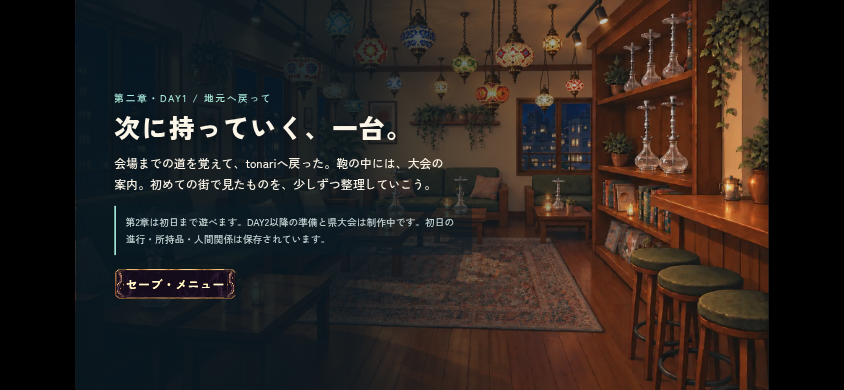
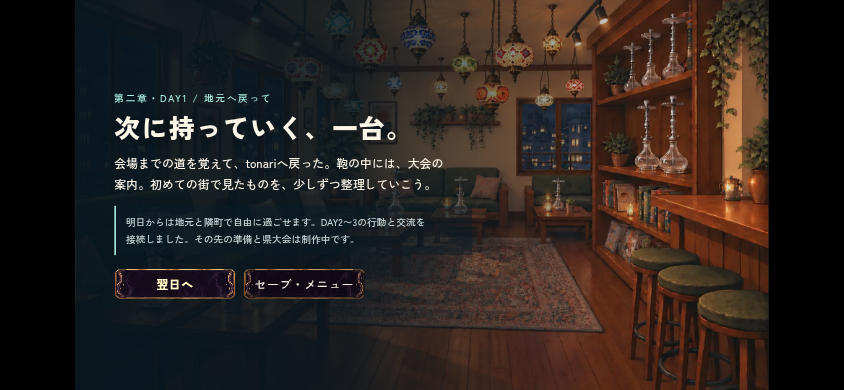
docs(ch2): verify preparation days, replay saves and existing daily flows

Changed region(s): [[0.154, 0.5538, 0.5545, 0.6462], [0.154, 0.6769, 0.4313, 0.7692]]

diff --git a/docs/qa/ch2-daily/README.md b/docs/qa/ch2-daily/README.md
@@ -24,4 +24,31 @@ node --experimental-vm-modules remake/test/lime_consistency.mjs
 
 ## 検証状況
 
-最終結果と画面は検証後に追記する。開発時に新テストの固定値が根性★2の体力上限110・消耗の補正と食い違っていたため既存ルールへ合わせた。分岐内の成長候補は会話エンジンの既存apply行として記録し、単なる台詞フィールドへ書かない。地図プレビューはCSS背景なので、画像要素を探す検査ではなく実際の背景URLと画像decodeを検査する。
+素材と台本を含むコミット9ac02e1を保存し、街切替の位置とスロットの検査を032601cへ追加。最終8ケースは全件PASS。[結果](browser-results.json)と[地元](day2-home.png)・[隣町](day2-widehanga.png)・[横持ちタッチのDAY3終了](touch-day3-complete.png)を保存した。開発時に新テストの固定値が根性★2の体力上限110・消耗の補正と食い違っていたため既存ルールへ合わせた。分岐内の成長候補は会話エンジンの既存apply行として記録し、単なる台詞フィールドへ書かない。地図プレビューはCSS背景なので、画像要素を探す検査ではなく実際の背景URLと画像decodeを検査する。
+
+
+## 既存の日常の回帰
+
+同じコードで初日接続9ケース、既存の休養・延期・病欠・大会の朝・LIME約束12ケース、シフト・遭遇・旧セーブ・前夜の行動14ケースがPASS。通常の成長と無料行動の検査は19種類の訪問・施設・休養・シフトを含めPASS。LIMEの通知・返信・予約のVM検査へ、第2章の章内DAY3条件・あげはの未交換と第1章での非配信・10日記念日・デート継続を追加しPASS。35 JSONの読込・日常整合性・章の日付境界もPASS。
+
+元の第1章の料金・体力補正・行動・固定夜・シフト・練習ルールを変えず、日常の終端と街固有のスポットだけ章側から渡す。通算16日を第2章DAY2として表示し、大会当日判定には章内日を使う。会話と夜の固定予定は実際の読了後に保存する。8本の新相談／再訪台本のlintはERROR0／WARN0。579場面の接続検査はPASS、既存shuraba_mashiroの重複警告1件は維持。
+
+室内は採用済み4室を使い、タッパーを客席へ戻さない。夜用の室内専用差分・営業中器具は未制作で、窓のある展示室も現状は同じ室内絵を使う。DAY4以降のカレンダーと県大会は今回の接続範囲に含めない。地元の全施設・すべての恋人ルートを第2章保存から再完走した検査ではない。
+
+
+## 最終8ケース
+
+| ケース | 確認 |
+| --- | --- |
+| next-day-region-switch-and-autosave | 実際の翌日ボタン、通算16日／章内DAY2／あと12日、街切替で消費なし、オートLOADで同じ街へ。実際にスロットを設置した画面でピン・HUD・筐体との重なり0 |
+| paid-city-talk-repeat-and-contact | 訪問料・根性補正後の体力・1行動・通常成長、同日の重複来店を抑止、再訪の別台本、読了後の連絡先と翌朝のLIME、保存再開 |
+| installed-reel-preserves-draw-on-reload | 本物の設置済みスロットで新街の行動を抽選し、リプレイ連鎖も含めて回転数・報酬・能力をLOADで再抽選／再加算しない |
+| touch-four-owners-and-fixed-day3-night | 横持ちタッチで未面識の4人を訪問。実際の名乗りと各相談、DAY3夜のなるの祝福を一度読み、無料固定の成長なし。DAY4朝の制作境界とLOAD |
+| preparation-json-failure-keeps-day1-and-retries | 追加台本が壊れても初日保存・日付を保ち、復旧後の再試行で翌日へ進む |
+| reload-unread-paid-room-keeps-last-action-point | 室内の途中で実際に再読込。未読の訪問・料金・能力・行動を確定せず、最後の保存からもう一度読める |
+| unaffordable-city-visit-spends-nothing | 所持金不足で移動ボタンを出さず、料金・行動・能力を消費しない |
+| room-image-failure-preserves-cost-and-action | 新内装画像が壊れた時は請求せず地図へ戻し、復旧後に1行動で再訪できる |
+
+正常起動の例外・HTTP失敗は0。故障ケースは200の不正本文を意図的に返した。4店の通し検査は高速送りも使い、画像と地図の配置は担当が実際に目視した。既存スロットのリプレイは1行動中に複数回転するので、一律に回転数1を要求せず、確定した結果の保存・再開を検査する。
+
+本編9＋自由日8＋既存の日常26＝43ブラウザケースがPASS。コミット9ac02e1のChapter 2 CI run38403313266は試遊／初日／自由日の3ジョブSUCCESS。032601cのrun38404342484も3ジョブSUCCESS。最終コミットは再訪の3行を未実施の行動の断定にならない表現へ合わせ、スロット検査をリプレイ対応へ整え、QAと画像を更新する。最終headのCIはPR Checksで追跡する。

diff --git a/docs/qa/ch2-preview/README.md b/docs/qa/ch2-preview/README.md
@@ -70,3 +70,7 @@ main `2d1dbe1` の制作ミニゲーム改修を通常merge後、素材・台本
 4室のゲーム上のスクリーンショットを更新し、担当が実際に目視した。MELTY PUFFは白・ピンクのクマが棚とソファに見え、プリクラ・デコケータイ・豹柄を維持。神崎は木壁・黒革ソファ・執務机・大理石床・神棚・肖像画・金屏風の事務所で、畳・靴を脱ぐ台詞を除去。REIはCDケース・ギター2本とV系アクセサリーの飾りが見える。ヴォルクは旧開放棚を扉付き収納へ変更。人物が中央の飾りの一部を遮るが、店固有の飾りは両側にも残る。会話枠の文字・各人のnormal・新背景の読込と、タッパーやフレーバー缶を客席へ露出させていないことを確認。背景読込故障時の再試行・地図への復帰と、夜の街への復帰もPASS。
 
 生成原画は改変せず保存し、4室の旧原画・実際の旧指示・配布も履歴として残した。自動検査は人物と新内装17ファイルの寸法・SHA256・WebP・framingを検証、旧8画像も以前のハッシュと一致。画像にタッパーがないことや家具構造は数値検査の結論ではなく目視結果として扱う。営業中の器具・夜用室内・実スマホ／Safariは今回の検査範囲外。
+
+## 日常の続行後
+
+本編にDAY2〜3の日常を追加しても、独立試遊の到着・地図・見学・帰路は同じ範囲に保つ。試遊から通常セーブを読まず書かない。自由日と新しい相談台本は本編の「翌日へ」からのみ読み込む。[自由日QA](../ch2-daily/README.md)を参照。

diff --git a/docs/qa/ch2-main/README.md b/docs/qa/ch2-main/README.md
@@ -47,7 +47,7 @@ main `0614327`（schema15のTRPG部活・採用済みOVA予告）まで通常mer
 
 ## 未完と範囲
 
-DAY2以降の自由行動・地元往復と行動消費・日常のLIME、孤立アーク、営業中の器具、DAY14の競技・再挑戦・東京移行は未接続。初日終了から未制作の日程へ進めず、保存とMENUを使える状態で止める。県大会の出場者ははじめ・あげは・神崎・REI。ヴォルクは展示の先行登場。県大会ホールはC.STATION店舗と同じビルの貸イベントホールで、店舗を展示会場と呼ばない。
+DAY2〜3の自由行動・地元往復と行動消費・日常のLIMEは後続で接続した（[自由日QA](../ch2-daily/README.md)）。DAY4以降の本筋・孤立アーク、営業中の器具、DAY14の競技・再挑戦・東京移行は未接続。初日終了では「翌日へ」を選べ、DAY3の夜のあとDAY4朝の制作境界に止まる。県大会の出場者ははじめ・あげは・神崎・REI。ヴォルクは展示の先行登場。県大会ホールはC.STATION店舗と同じビルの貸イベントホールで、店舗を展示会場と呼ばない。
 
 物理スマホ・Safari・ブラウザの実BFcache採用は未検証。独立試遊の履歴イベント検査はハンドラの検査として扱う。本編の室内中断は実際のページ再読込を使う。
 
